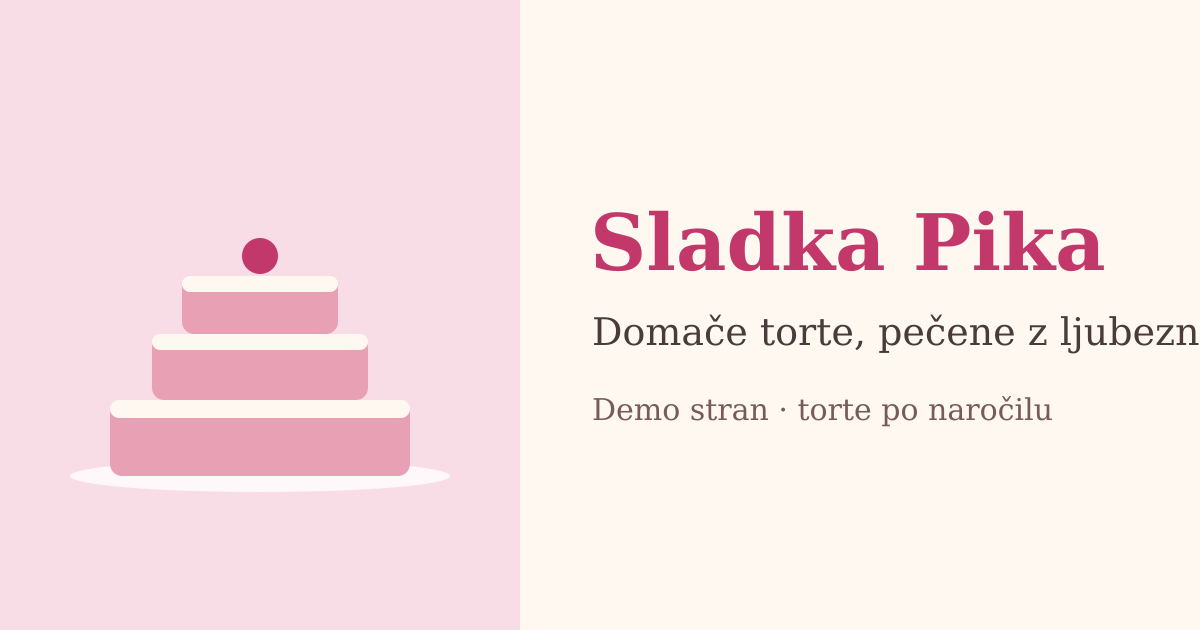
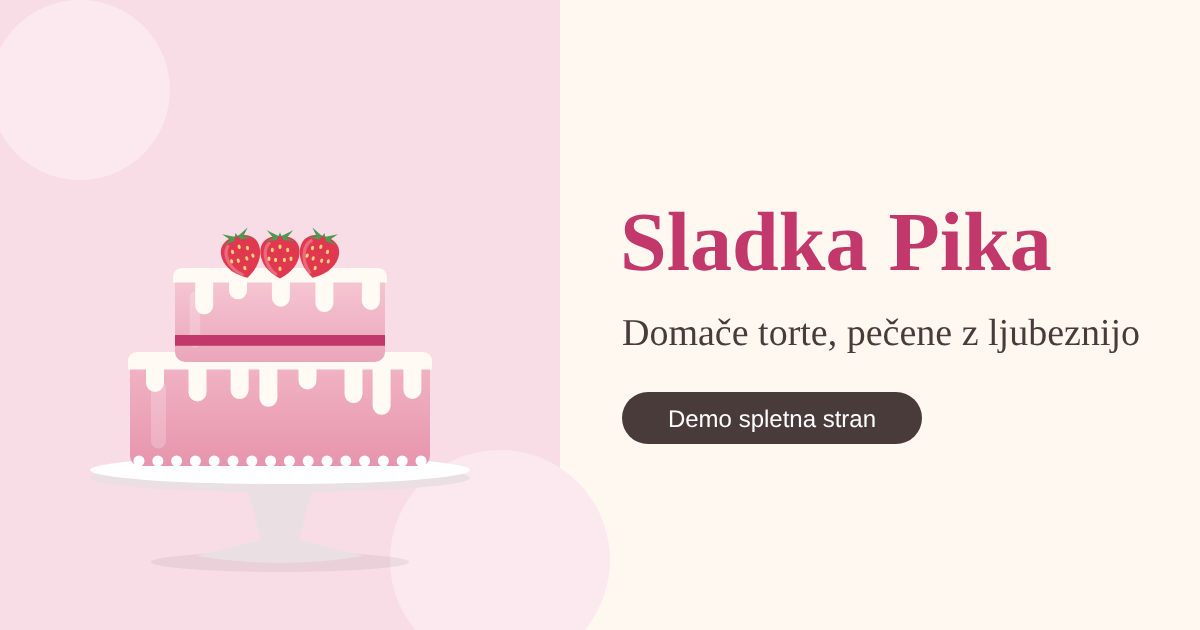
Demo: ilustracije tort namesto vzorčnih slik, povezava avtorja v pasici
Vzorčne SVG z napisom »fotografija pride kmalu« zamenjajo ilustrirane torte
(preliv, jagode, svečke, cvetje, cupcakes, kuhinja) in nova slika za deljenje.
Pasica povezuje na GitHub profil avtorja; README ima seznam za prehod z
demo na pravo stran.

Claude-Session: https://claude.ai/code/session_015p8BifkT53kMkuVwD3xCFU

Changed region(s): [[0.4317, 0.0, 1.0, 0.7238], [0.0617, 0.3619, 0.4008, 0.7841]]

diff --git a/template.html b/template.html
@@ -25,7 +25,7 @@
   </head>
 
   <body>
-    <p class="demo-banner"><strong>Demo stran.</strong> Podjetje Sladka Pika, cene in kontakti so izmišljeni. Izdelava: Luka Milinković.</p>
+    <p class="demo-banner"><strong>Demo stran.</strong> Podjetje Sladka Pika, cene in kontakti so izmišljeni. Izdelava: <a href="https://github.com/milinkovicluka">Luka Milinković</a>.</p>
     <header class="site-header">
       <div class="header-row">
         <a class="brand" href="/">{{ SiteName }}</a>

diff --git a/static/index.css b/static/index.css
@@ -607,7 +607,8 @@ pre code {
   line-height: 1.4;
 }
 
-.demo-banner strong {
+.demo-banner strong,
+.demo-banner a {
   color: #ffffff;
 }
 

diff --git a/README.md b/README.md
@@ -66,7 +66,8 @@ pod `web3forms_key`. Dokler je tam `VSTAVI-SVOJ-KLJUC`, obrazec ne deluje.
 
 ## Slike
 
-Zdaj so na strani vzorčne slike (`static/images/*.svg`). Ko so na voljo prave fotografije:
+Na demo strani so ilustracije v SVG (`static/images/*.svg`): lahke, ostre na vsakem zaslonu in brez avtorskih omejitev.
+Za pravo stranko jih zamenjaš s fotografijami:
 
 1. Shrani jih v `static/images/` (najbolje `.webp` ali `.jpg`, široke do ~1600 px, pod 300 KB).
 2. V `content/` zamenjaj ime datoteke v `src="/images/..."`.
@@ -123,10 +124,10 @@ Sitemap lahko že zdaj ročno oddaš v [Google Search Console](https://search.go
 
 Hitrost in dostopnost preveri na [PageSpeed Insights](https://pagespeed.web.dev) po vsaki večji spremembi.
 
-## Še za narediti
+## Če iz demo strani nastane prava stran
 
-- [ ] Prave fotografije (brezplačne s Pexels/Unsplash) namesto vzorčnih SVG
-- [ ] Prave fotografije tort, naslovne slike in Anje
-- [ ] Prave cene in okusi na strani Ponudba, besedilo na strani O nas
+- [ ] Odstrani demo pasico v `template.html` in `noindex` iz glave
+- [ ] Pravi kontakti v `site.json` in ključ Web3Forms; obrazcu odstrani `data-demo` in demo skripto
 - [ ] Prave fotografije v WebP s `srcset` in prava slika za deljenje
+- [ ] Prave cene, okusi in besedilo O nas
 - [ ] Lastna domena

diff --git a/.claude/skills/sladka-pika-demo/SKILL.md b/.claude/skills/sladka-pika-demo/SKILL.md
@@ -72,11 +72,11 @@ Ključ si mora uporabnik ustvariti sam na web3forms.com.
 
 ## Slike
 
-Vzorčne slike so SVG v `static/images/` (naslovna, rojstnodnevna, cokoladna, jagodna, otroska,
+Ilustracije (SVG, brez besedila na sliki) so v `static/images/` (naslovna, rojstnodnevna, cokoladna, jagodna, otroska,
 porocna, cupcakes, kuhinja). Prave fotografije: `.webp`/`.jpg`, do ~1600 px, pod 300 KB, razmerje
 4:3 za torte; zamenjaj `src` v vsebini in posodobi `width`/`height`. Za več velikosti `srcset`
 (generator ga **ne** popravlja za basepath). Slika za deljenje: `static/images/deljenje.png` 1200×630
-(iz `deljenje.svg`, upodobljeno z `qlmanage` na kvadratno platno + `sips -c 630 1200`).
+(iz `deljenje.svg`, upodobljeno s Playwright: zaslonska slika SVG pri 1200×630).
 
 ## Objava
 
